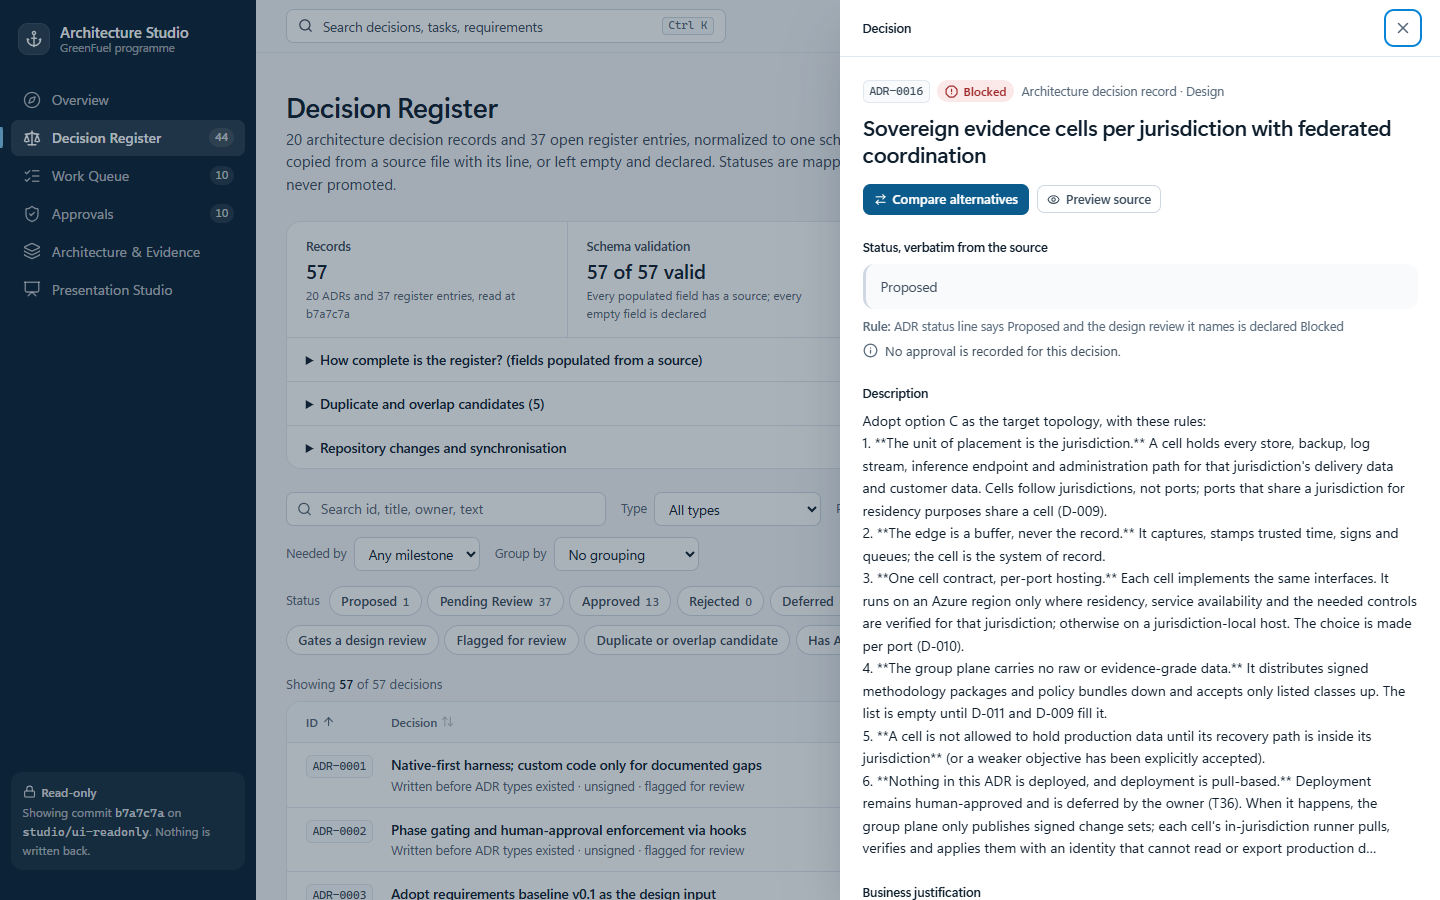
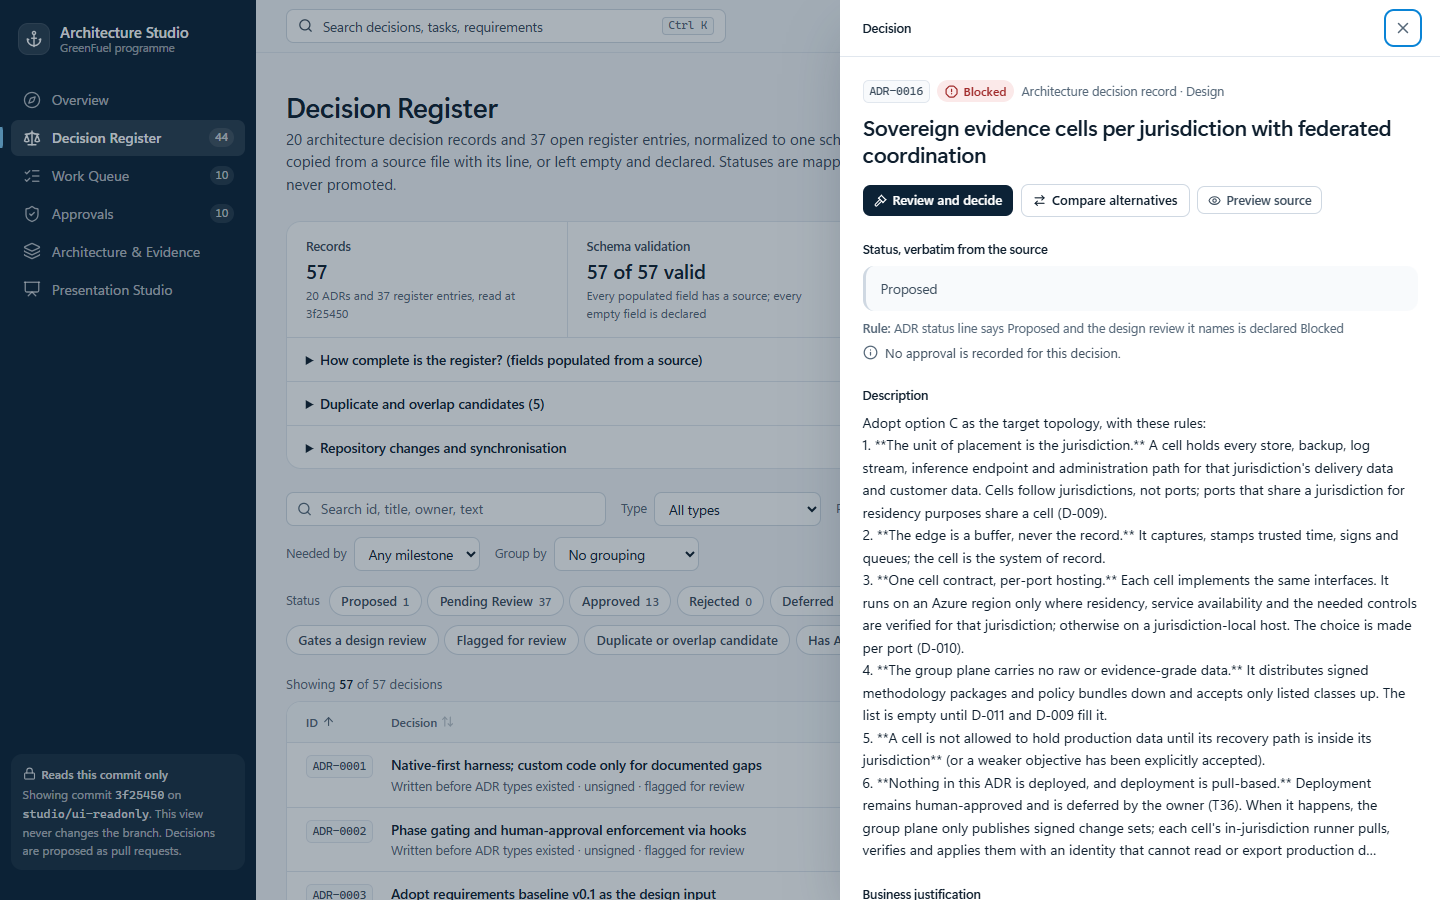
Decision review workflow: line-by-line approval via pull requests, tamper-evident records, identity and roles, tests and docs

diff --git a/apps/architecture-studio/e2e/review.spec.ts b/apps/architecture-studio/e2e/review.spec.ts
@@ -1,16 +1,19 @@
 import fs from 'node:fs';
 import path from 'node:path';
 import { spawnSync } from 'node:child_process';
-import { expect, test, type APIRequestContext, type Page } from '@playwright/test';
+import { expect as baseExpect, test, type APIRequestContext, type Locator, type Page } from '@playwright/test';
 import { USERS } from '../checks/fixtures/review-fixture.ts';
 import { expectNoAxeViolations } from './helpers.ts';
+
+// These tests wait on real git work (fetch, push, a model rebuild after a merge), so assertions get a longer, still bounded, wait.
+const expect = baseExpect.configure({ timeout: 20_000 });
 
 // The whole review workflow, in a real browser, against a throw-away clone of this repository with a local bare "GitHub"
 // remote, a simulated pull-request service and test identities (server on port 3103, STUDIO_TEST_MODE). Nothing here touches the
 // real repository or GitHub. A person's "merge" is done with git on the bare remote, exactly as GitHub would do it.
 const BASE = 'http://localhost:3103';
 test.use({ baseURL: BASE });
-test.describe.configure({ mode: 'serial' });
+test.describe.configure({ mode: 'serial', timeout: 90_000 });
 
 const dir = process.env.STUDIO_E2E_REVIEW_DIR!;
 const state = path.join(dir, 'state');
@@ -55,16 +58,26 @@ async function act(page: Page, action: string, fill: { reason?: string; label?: 
   if (fill.conditions) {
     for (const [i, c] of fill.conditions.entries()) {
       if (i > 0) await d.getByRole('button', { name: 'Add a condition' }).click();
-      await d.getByLabel(`Condition ${i + 1}`).fill(c);
+      await d.getByRole('textbox', { name: `Condition ${i + 1}`, exact: true }).fill(c);
     }
   }
   if (fill.reason !== undefined) await d.getByRole('textbox', { name: fill.label ?? /./ }).last().fill(fill.reason);
+  const t0 = Date.now();
   await d.getByRole('button', { name: fill.submit }).click();
-  await expect(d).toBeHidden();
+  await expect(d).toBeHidden({ timeout: 30_000 });
+  console.log(`SUBMIT-MS ${action} ${Date.now() - t0}`);
 }
 
 const tracker = (page: Page) => page.getByTestId('proposal-tracker');
 const status = (page: Page) => page.getByTestId('review-status');
+
+// Evidence screenshots: real captures from this run, written next to the other Studio screenshots.
+const shotDir = path.resolve(process.cwd(), '..', '..', 'docs', 'architecture-studio', 'screenshots');
+async function shot(target: Page | Locator, name: string, fullPage = false) {
+  await new Promise((r) => setTimeout(r, 400));
+  if ('goto' in target) await target.screenshot({ path: path.join(shotDir, `${name}.png`), fullPage, animations: 'disabled' });
+  else await target.screenshot({ path: path.join(shotDir, `${name}.png`), animations: 'disabled' });
+}
 
 async function csrf(req: APIRequestContext) {
   const s = (await (await req.get('/api/v1/auth/session')).json()) as { csrf?: string };
@@ -89,6 +102,7 @@ test.describe('navigation and the full record', () => {
     await expect(page.getByTestId('dependencies')).toContainText('Depends on');
     await expect(page.getByText('Nothing here is predicted by a model.')).toBeVisible();
     await expect(page.getByTestId('pending-position')).toContainText(/^1 of \d+$/);
+    await shot(page, '31-review-page', true);
 
     await page.getByRole('heading', { level: 1 }).click(); // move focus out of anything editable
     await page.keyboard.press('n');
@@ -137,6 +151,7 @@ test.describe('approval, canonical only after the merge', () => {
     await expect(tracker(page)).toHaveAttribute('data-state', 'pull-request-created');
     await expect(tracker(page).getByRole('listitem').filter({ hasText: 'Pull request created' })).toHaveAttribute('aria-current', 'step');
     await expect(page.getByTestId('rail-notice')).toContainText('Pull request created');
+    await shot(page, '32-review-pull-request-created');
     // Not canonical yet: the pill, the API and main all still say what they said before.
     await expect(status(page)).toContainText('Proposed');
     expect(((await (await request.get('/api/v1/decisions/ADR-0020')).json()) as { decision: { status: string } }).decision.status).toBe('Proposed');
@@ -157,6 +172,7 @@ test.describe('approval, canonical only after the merge', () => {
     await expect(tracker(page)).toBeHidden();
     await expect(status(page)).toContainText('Approved');
     await expect(page.getByText('Status comes from a review record on the canonical branch')).toBeVisible();
+    await shot(page, '33-review-canonical-approved');
     expect(((await (await request.get('/api/v1/decisions/ADR-0020')).json()) as { decision: { status: string; approvalBasis: string } }).decision).toMatchObject({ status: 'Approved', approvalBasis: 'review-record' });
     expect(reviewFiles()).toContain('docs/decision-reviews/ADR-0020/0001-approve.json');
     await expect(page.getByTestId('timeline')).toContainText('Approve the recommended option');
@@ -170,7 +186,7 @@ test.describe('approval, canonical only after the merge', () => {
     const detail = page.getByTestId('decision-detail');
     await expect(detail).toContainText('Approved by a Studio review record');
     await expect(detail).toContainText('not a signed approval under ADR 0008');
-    await page.getByRole('button', { name: /^Approved \d+$/ }).first().waitFor();
+    await page.keyboard.press('Escape');
     await expect(page.getByRole('button', { name: /^Approved 14$/ })).toBeVisible();
   });
 });
@@ -188,6 +204,7 @@ test.describe('alternative, conditional and rejection', () => {
     await expect(d.getByText(/At least 10 characters/)).toBeVisible();
     await expect(d.getByRole('button', { name: 'Submit selection' })).toBeDisabled();
     await d.getByRole('textbox').last().fill(REASON);
+    await shot(page, '34-review-alternative-dialog');
     await d.getByRole('button', { name: 'Submit selection' }).click();
     await expect(d).toBeHidden();
     await expect(tracker(page)).toHaveAttribute('data-state', 'pull-request-created');
@@ -197,8 +214,8 @@ test.describe('alternative, conditional and rejection', () => {
     expect(file.actor.login).toBe('test-owner');
     merge(lastPr().number);
     await tracker(page).getByRole('button', { name: 'Check GitHub status' }).click();
-    await expect(status(page)).toContainText('Approved');
     await expect(page.getByTestId('review-rail')).toContainText('(not the recommended option)');
+    await expect(status(page)).toContainText('Approved');
   });
 
   test('conditional approval needs at least one condition and shows the conditions once it is canonical', async ({ page }) => {
@@ -208,9 +225,9 @@ test.describe('alternative, conditional and rejection', () => {
     const d = page.getByTestId('action-dialog');
     await expect(d.getByRole('button', { name: 'Submit conditional approval' })).toBeDisabled();
     await expect(d.getByText('At least one condition is needed.')).toBeVisible();
-    await d.getByLabel('Condition 1').fill('Confirm in-country region support first');
+    await d.getByRole('textbox', { name: 'Condition 1', exact: true }).fill('Confirm in-country region support first');
     await d.getByRole('button', { name: 'Add a condition' }).click();
-    await d.getByLabel('Condition 2').fill('Re-review after the pilot');
+    await d.getByRole('textbox', { name: 'Condition 2', exact: true }).fill('Re-review after the pilot');
     await d.getByRole('button', { name: 'Submit conditional approval' }).click();
     await expect(d).toBeHidden();
     merge(lastPr().number);
@@ -285,9 +302,10 @@ test.describe('who may act', () => {
     await signIn(page, USERS.outsider);
     await expect(page.getByTestId('identity')).toContainText('Not a registered approver');
     await expect(page.getByTestId('action-reject')).toHaveAttribute('aria-disabled', 'true');
-    await page.getByTestId('action-reject').click();
+    await page.getByTestId('action-reject').click({ force: true }); // aria-disabled, but clickable so that it can explain itself
     await expect(page.getByTestId('rail-notice')).toContainText('is not a registered approver');
     await expect(page.getByTestId('action-dialog')).toHaveCount(0);
+    await shot(page, '35-review-unauthorised');
     await expect(page.getByTestId('action-comment')).not.toHaveAttribute('aria-disabled', 'true');
 
     const token = await csrf(page.request);
@@ -411,6 +429,7 @@ test.describe('duplicate and stale submissions', () => {
     await d.getByRole('textbox').fill('Page B rejects on a stale view.');
     await d.getByRole('button', { name: 'Submit rejection' }).click();
     await expect(d.getByRole('alert')).toContainText('This decision changed after you opened it');
+    await shot(b, '36-review-stale-revision');
     await expect(d.getByRole('button', { name: 'Submit rejection' })).toBeDisabled();
     await d.getByRole('button', { name: 'Reload this decision' }).click();
     await b.keyboard.press('Escape');
@@ -433,6 +452,7 @@ test.describe('GitHub synchronisation failure and recovery', () => {
       await expect(tracker(page)).toHaveAttribute('data-state', 'awaiting-github-update');
       await expect(tracker(page)).toContainText('Last attempt');
       await expect(tracker(page)).toContainText('Could not fetch');
+      await shot(page, '37-review-github-unreachable');
       expect(prs().length).toBe(before);
       await expect(status(page)).toContainText('Pending Review');
       await expect(page.getByTestId('action-reject')).toHaveAttribute('aria-disabled', 'true');
@@ -482,6 +502,7 @@ test.describe('GitHub synchronisation failure and recovery', () => {
     await tracker(page).getByRole('button', { name: 'Check GitHub status' }).click();
     await expect(tracker(page)).toHaveAttribute('data-state', 'conflicted');
     await expect(tracker(page).getByRole('alert')).toContainText('Reload and decide again');
+    await shot(page, '38-review-conflicted');
   });
 });
 

diff --git a/apps/architecture-studio/src/components/review/review-rail.tsx b/apps/architecture-studio/src/components/review/review-rail.tsx
@@ -123,25 +123,32 @@ export function ReviewRail({ id, options }: { id: string; options: OptionChoice[
     else setError(r.body?.detail ?? `HTTP ${r.status}`);
   }, [id]);
 
+  // Session and review state change together: the authorisation of each action depends on who is signed in, so showing a new
+  // identity beside the old authorisation would be wrong, even briefly.
+  const loadBoth = useCallback(async () => {
+    setError(null);
+    const [s, r] = await Promise.all([api<SessionInfo>('/api/v1/auth/session'), api<ReviewData>(`/api/v1/review/${encodeURIComponent(id)}`)]);
+    if (s.ok && s.body) setSession(s.body);
+    if (r.ok && r.body) setData(r.body);
+    else setError(r.body?.detail ?? `HTTP ${r.status}`);
+  }, [id]);
+
   useEffect(() => {
-    void loadSession();
-    void load();
-  }, [loadSession, load]);
+    void loadBoth();
+  }, [loadBoth]);
 
   const signIn = async () => {
     setBusy(true);
     setSignInError(null);
     const r = await api<SessionInfo>('/api/v1/auth/signin', { method: 'POST', headers: { 'content-type': 'application/json' }, body: '{}' });
-    setBusy(false);
     if (!r.ok) setSignInError(r.body?.detail ?? `Sign-in failed (HTTP ${r.status}).`);
-    await loadSession();
-    await load();
+    await loadBoth();
+    setBusy(false);
   };
 
   const signOut = async () => {
     await api('/api/v1/auth/signout', { method: 'POST', headers: { 'content-type': 'application/json' }, body: '{}' });
-    await loadSession();
-    await load();
+    await loadBoth();
   };
 
   const submit = async (body: Record<string, unknown>): Promise<SubmitResult> => {
@@ -150,10 +157,11 @@ export function ReviewRail({ id, options }: { id: string; options: OptionChoice[
       headers: { 'content-type': 'application/json', 'x-studio-csrf': session?.csrf ?? '' },
       body: JSON.stringify(body),
     });
-    if (r.status === 401) await loadSession();
+    if (r.status === 401) await loadBoth();
     if (r.ok && r.body) {
       setNotice(r.body.duplicate ? 'That submission was already recorded. Nothing new was created.' : `Submitted. ${PROPOSAL_LABEL[r.body.proposal.state as ProposalState]}.`);
-      await load();
+      // Refresh in the background so the dialog can close at once.
+      void load();
       router.refresh();
     }
     return { ok: r.ok, status: r.status, code: r.body?.code, detail: r.body?.detail, proposal: r.body?.proposal, duplicate: r.body?.duplicate };
@@ -164,7 +172,7 @@ export function ReviewRail({ id, options }: { id: string; options: OptionChoice[
     const r = await api<{ proposal: Proposal }>(`/api/v1/review/proposals/${p.id}/sync`, { method: 'POST', headers: { 'content-type': 'application/json', 'x-studio-csrf': session?.csrf ?? '' }, body: '{}' });
     setBusy(false);
     setNotice(r.ok && r.body ? `${PROPOSAL_LABEL[r.body.proposal.state as ProposalState]}.` : (r.body?.detail ?? 'Could not check GitHub.'));
-    await load();
+    void load();
     router.refresh();
   };
 

diff --git a/apps/architecture-studio/src/lib/repo/index.ts b/apps/architecture-studio/src/lib/repo/index.ts
@@ -10,7 +10,9 @@ import type { StudioModel } from './types.ts';
 export { GitError };
 
 const TTL_MS = 5_000;
-let cached: { key: string; at: number; model: StudioModel } | null = null;
+// Route handlers and pages are bundled separately, so a module-level variable would be a different copy in each.
+// The cache lives on globalThis so that invalidating it in one place is seen everywhere.
+const shared = globalThis as unknown as { __studioModel?: { key: string; at: number; model: StudioModel } | null };
 // Parsed source files, keyed by path and git blob id. Surviving across requests is what makes re-reading incremental.
 const fragmentCache: FragmentCache = new Map();
 
@@ -46,13 +48,19 @@ function withReviews(model: StudioModel): StudioModel {
   }
 }
 
+/** Forget the cached read model, so the next read reflects a change just made (for example a verified merge). */
+export function invalidateModel() {
+  shared.__studioModel = null;
+}
+
 /** Build (or reuse, for a few seconds) the read model. `fresh` forces a re-read of the repository. */
 export async function getModel(opts: { fresh?: boolean } = {}): Promise<StudioModel> {
   const delay = Number(process.env.STUDIO_E2E_DELAY_MS ?? 0);
   if (delay > 0) await new Promise((r) => setTimeout(r, delay));
   const key = `${repoRoot()}::${configuredRef()}`;
-  if (!opts.fresh && cached && cached.key === key && Date.now() - cached.at < TTL_MS) return cached.model;
+  const hit = shared.__studioModel;
+  if (!opts.fresh && hit && hit.key === key && Date.now() - hit.at < TTL_MS) return hit.model;
   const model = withReviews(buildModel(openAdapter(), fragmentCache));
-  cached = { key, at: Date.now(), model };
+  shared.__studioModel = { key, at: Date.now(), model };
   return model;
 }

diff --git a/apps/architecture-studio/src/app/api/v1/auth/signin/route.ts b/apps/architecture-studio/src/app/api/v1/auth/signin/route.ts
@@ -2,7 +2,6 @@ import type { NextRequest } from 'next/server';
 import { NextResponse } from 'next/server';
 import { guard, problem } from '@/lib/api.ts';
 import { COOKIE, runtime, sameOrigin } from '@/lib/workflow/http.ts';
-import { IdentityError } from '@/lib/workflow/identity.ts';
 import { isTestMode } from '@/lib/workflow/runtime.ts';
 
 export const dynamic = 'force-dynamic';
@@ -19,9 +18,12 @@ export function POST(req: NextRequest) {
     try {
       user = await service.deps.identity.verify();
     } catch (e) {
-      const err = e instanceof IdentityError ? e : new IdentityError('GH_UNAVAILABLE', 'GitHub could not confirm who you are.');
-      service.deps.store.audit({ at: new Date().toISOString(), actor: null, decisionId: null, action: 'signin', outcome: 'denied', code: err.code, detail: err.message.slice(0, 300), proposalId: null });
-      return problem(err.code === 'GH_UNAVAILABLE' ? 503 : 401, 'Sign-in refused', err.message, err.code);
+      // Not `instanceof`: the error comes from a service created in another route's bundle.
+      const o = e as { name?: string; code?: string; message?: string } | null;
+      const code = o?.name === 'IdentityError' && typeof o.code === 'string' ? o.code : 'GH_UNAVAILABLE';
+      const message = o?.name === 'IdentityError' && o.message ? o.message : 'GitHub could not confirm who you are.';
+      service.deps.store.audit({ at: new Date().toISOString(), actor: null, decisionId: null, action: 'signin', outcome: 'denied', code, detail: message.slice(0, 300), proposalId: null });
+      return problem(code === 'GH_UNAVAILABLE' ? 503 : 401, 'Sign-in refused', message, code);
     }
     const s = sessions.create(user);
     const policy = service.policy();

diff --git a/apps/architecture-studio/src/app/api/v1/review/[id]/actions/route.ts b/apps/architecture-studio/src/app/api/v1/review/[id]/actions/route.ts
@@ -1,6 +1,6 @@
 import type { NextRequest } from 'next/server';
 import { guard, ok, problem } from '@/lib/api.ts';
-import { getModel } from '@/lib/repo/index.ts';
+import { getModel, invalidateModel } from '@/lib/repo/index.ts';
 import { requireSession, runtime, serviceProblem } from '@/lib/workflow/http.ts';
 
 export const dynamic = 'force-dynamic';
@@ -22,7 +22,7 @@ export function POST(req: NextRequest, ctx: { params: Promise<{ id: string }> })
     if (Number(req.headers.get('content-length') ?? 0) > 40_000) return problem(413, 'Request too large', 'The request is too large.');
     const body = (await req.json().catch(() => null)) as Record<string, unknown> | null;
     if (!body || typeof body !== 'object' || Array.isArray(body)) return problem(400, 'Invalid body', 'Send one JSON object describing one action.');
-    const m = await getModel({ fresh: true });
+    const m = await getModel();
     const d = m.register.records.find((r) => r.id === id);
     if (!d) return problem(404, 'Decision not found', `No decision ${id.slice(0, 20)} in the register.`);
     try {
@@ -37,6 +37,8 @@ export function POST(req: NextRequest, ctx: { params: Promise<{ id: string }> })
       });
       // Send it to GitHub straight away. If GitHub cannot be reached the proposal is kept and can be retried.
       const current = duplicate ? proposal : await service.sync(proposal.id);
+      // Only a verified merge changes what is canonical; an opened pull request does not.
+      if (current.state === 'applied') invalidateModel();
       return ok({ duplicate, proposal: current });
     } catch (e) {
       return serviceProblem(e) ?? Promise.reject(e);

diff --git a/apps/architecture-studio/src/components/review/action-dialog.tsx b/apps/architecture-studio/src/components/review/action-dialog.tsx
@@ -55,9 +55,12 @@ export function ActionDialog({ action, onClose, decisionId, options, revision, l
   const [busy, setBusy] = useState(false);
   const [error, setError] = useState<SubmitResult | null>(null);
   const key = useRef(newKey());
+  const optionsRef = useRef(options);
+  optionsRef.current = options;
   const hasRec = options.some((o) => o.recommended);
   const choices = useMemo(() => (action === 'approve-alternative' && hasRec ? options.filter((o) => !o.recommended) : options), [action, options, hasRec]);
 
+  // Reset only when a different action is opened. A background refresh passes new props; it must never clear what the user typed.
   useEffect(() => {
     if (!action) return;
     key.current = newKey();
@@ -65,8 +68,9 @@ export function ActionDialog({ action, onClose, decisionId, options, revision, l
     setError(null);
     setBusy(false);
     setConditions(['']);
-    setOptionKey(action === 'approve-with-conditions' ? (options.find((o) => o.recommended)?.key ?? options[0]?.key ?? '') : '');
-  }, [action, options]);
+    const o = optionsRef.current;
+    setOptionKey(action === 'approve-with-conditions' ? (o.find((x) => x.recommended)?.key ?? o[0]?.key ?? '') : '');
+  }, [action]);
 
   if (!action) return null;
   const c = COPY[action];

diff --git a/apps/architecture-studio/src/lib/workflow/http.ts b/apps/architecture-studio/src/lib/workflow/http.ts
@@ -41,7 +41,14 @@ export function requireSession(req: NextRequest, opts: { csrf?: boolean } = {}):
   return s;
 }
 
+/** Errors cross bundle boundaries in Next (each route has its own copy of a class), so `instanceof` is not reliable. Check the shape. */
+export function asServiceError(e: unknown): ServiceError | null {
+  const o = e as { name?: unknown; status?: unknown; code?: unknown; message?: unknown; extra?: unknown } | null;
+  return o && typeof o === 'object' && o.name === 'ServiceError' && typeof o.status === 'number' && typeof o.code === 'string' ? (e as ServiceError) : null;
+}
+
 export function serviceProblem(e: unknown): Response | null {
-  if (e instanceof ServiceError) return Response.json({ type: 'about:blank', title: e.code, status: e.status, detail: e.message, code: e.code, ...e.extra }, { status: e.status, headers: { 'Content-Type': 'application/problem+json', 'Cache-Control': 'no-store' } });
+  const s = asServiceError(e);
+  if (s) return Response.json({ type: 'about:blank', title: s.code, status: s.status, detail: s.message, code: s.code, ...(s.extra ?? {}) }, { status: s.status, headers: { 'Content-Type': 'application/problem+json', 'Cache-Control': 'no-store' } });
   return null;
 }

diff --git a/apps/architecture-studio/checks/workflow.check.ts b/apps/architecture-studio/checks/workflow.check.ts
@@ -612,6 +612,16 @@ describe('audit log', () => {
 });
 
 describe('ordering and availability', () => {
+  it('the policy shipped in this repository parses, and can never list a bot, an organisation or a person without a numeric id', async () => {
+    const fs = await import('node:fs');
+    const text = fs.readFileSync(path.resolve(import.meta.dirname, '..', '..', '..', 'harness', 'policy', 'decision-workflow.json'), 'utf8');
+    const p = parsePolicy(text, 'canonical');
+    assert.ok(Object.keys(p.roleAliases).includes('programme-owner'));
+    assert.deepEqual(p.critical.requiredRoles, ['programme-owner']);
+    assert.ok(p.people.every((x) => Number.isInteger(x.githubId) && !/\[bot\]$/i.test(x.githubLogin)));
+    assert.ok(p.problems.every((m) => /No approver is configured/.test(m)), `unexpected policy problems: ${p.problems.join('; ')}`);
+  });
+
   it('orders pending decisions: Must first, ADRs before register entries, Blocked last, skipping those with a request in flight', () => {
     const r = [
       makeDecision({ id: 'D-002', kind: 'register-entry', status: 'Pending Review', priority: { value: 'Must', basis: 'x' } }),

diff --git a/apps/architecture-studio/src/components/shell/app-shell.tsx b/apps/architecture-studio/src/components/shell/app-shell.tsx
@@ -72,9 +72,9 @@ function ReadOnlyFooter({ repo }: { repo: RepoMeta }) {
     <div className="m-3 rounded-xl bg-white/6 p-3 text-[12px] leading-[18px] text-white/65">
       <p className="mb-0.5 flex items-center gap-1.5 font-medium text-white/85">
         <Lock aria-hidden className="size-3.5" />
-        Read-only
+        Reads this commit only
       </p>
-      Showing commit <span className="font-mono text-white/85">{repo.commitShort}</span> on <span className="font-mono text-white/85">{repo.branch ?? 'detached HEAD'}</span>. Nothing is written back.
+      Showing commit <span className="font-mono text-white/85">{repo.commitShort}</span> on <span className="font-mono text-white/85">{repo.branch ?? 'detached HEAD'}</span>. This view never changes the branch. Decisions are proposed as pull requests.
     </div>
   );
 }

diff --git a/apps/architecture-studio/src/app/api/v1/review/proposals/[pid]/sync/route.ts b/apps/architecture-studio/src/app/api/v1/review/proposals/[pid]/sync/route.ts
@@ -1,5 +1,6 @@
 import type { NextRequest } from 'next/server';
 import { guard, ok } from '@/lib/api.ts';
+import { invalidateModel } from '@/lib/repo/index.ts';
 import { requireSession, runtime, serviceProblem } from '@/lib/workflow/http.ts';
 
 export const dynamic = 'force-dynamic';
@@ -12,6 +13,7 @@ export function POST(req: NextRequest, ctx: { params: Promise<{ pid: string }> }
     const { pid } = await ctx.params;
     try {
       const proposal = await runtime().service.sync(decodeURIComponent(pid));
+      if (proposal.state === 'applied') invalidateModel();
       return ok({ proposal });
     } catch (e) {
       return serviceProblem(e) ?? Promise.reject(e);

diff --git a/apps/architecture-studio/src/app/approvals/page.tsx b/apps/architecture-studio/src/app/approvals/page.tsx
@@ -116,7 +116,7 @@ export default async function ApprovalsPage() {
           ))}
         </ol>
         <p className="mt-4 text-[12.5px] text-ink-3">
-          <Tag>read-only</Tag> This page changes nothing. Write-back is not implemented in this stage.
+          <Tag>read-only</Tag> This page changes nothing. Decisions are reviewed one at a time on each decision&rsquo;s review page, which proposes them as pull requests. Signed approvals still use the commands above.
         </p>
       </Section>
     </>

diff --git a/apps/architecture-studio/src/app/api/v1/review/[id]/route.ts b/apps/architecture-studio/src/app/api/v1/review/[id]/route.ts
@@ -12,7 +12,7 @@ export function GET(req: NextRequest, ctx: { params: Promise<{ id: string }> }) 
   return guard(async () => {
     const { id: raw } = await ctx.params;
     const id = decodeURIComponent(raw);
-    const m = await getModel({ fresh: true });
+    const m = await getModel();
     const d = m.register.records.find((r) => r.id === id);
     if (!d) return problem(404, 'Decision not found', `No decision ${id.slice(0, 20)} in the register.`);
     const { service } = runtime();
